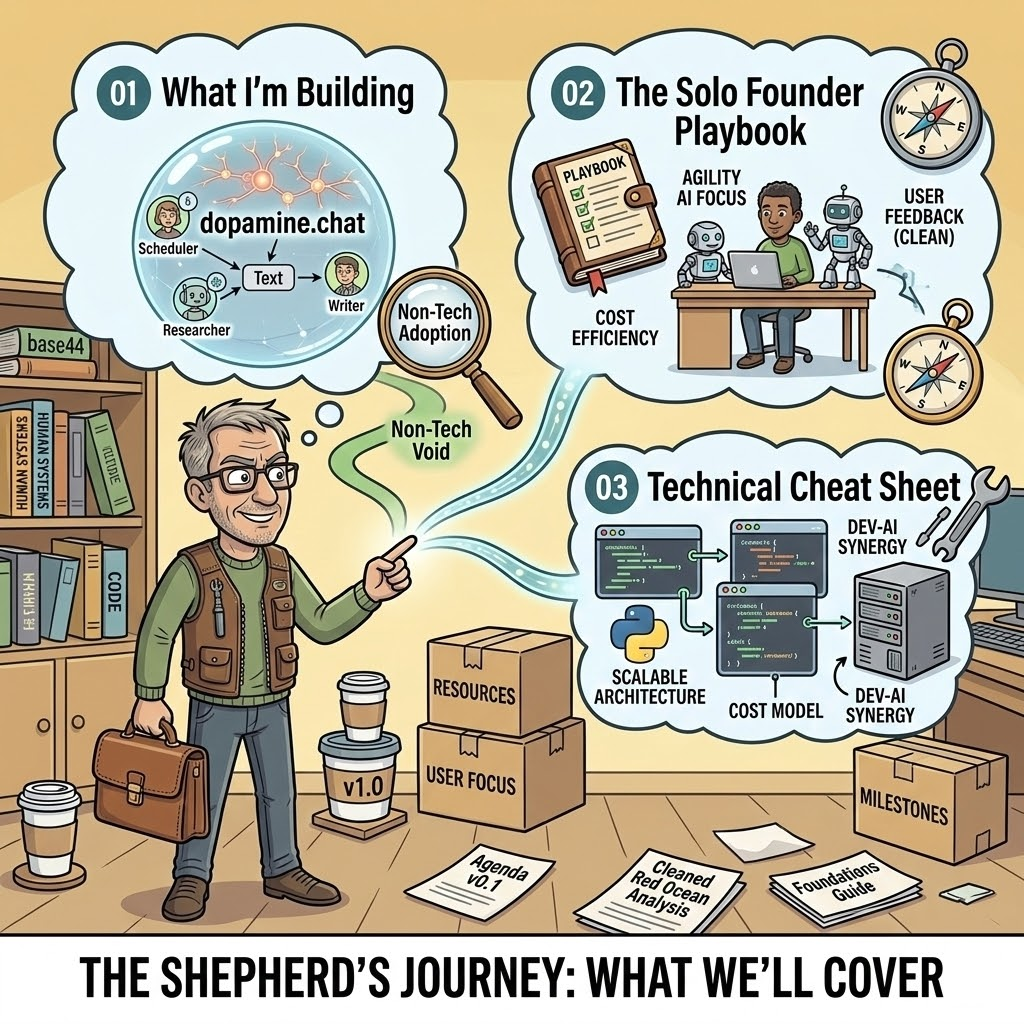
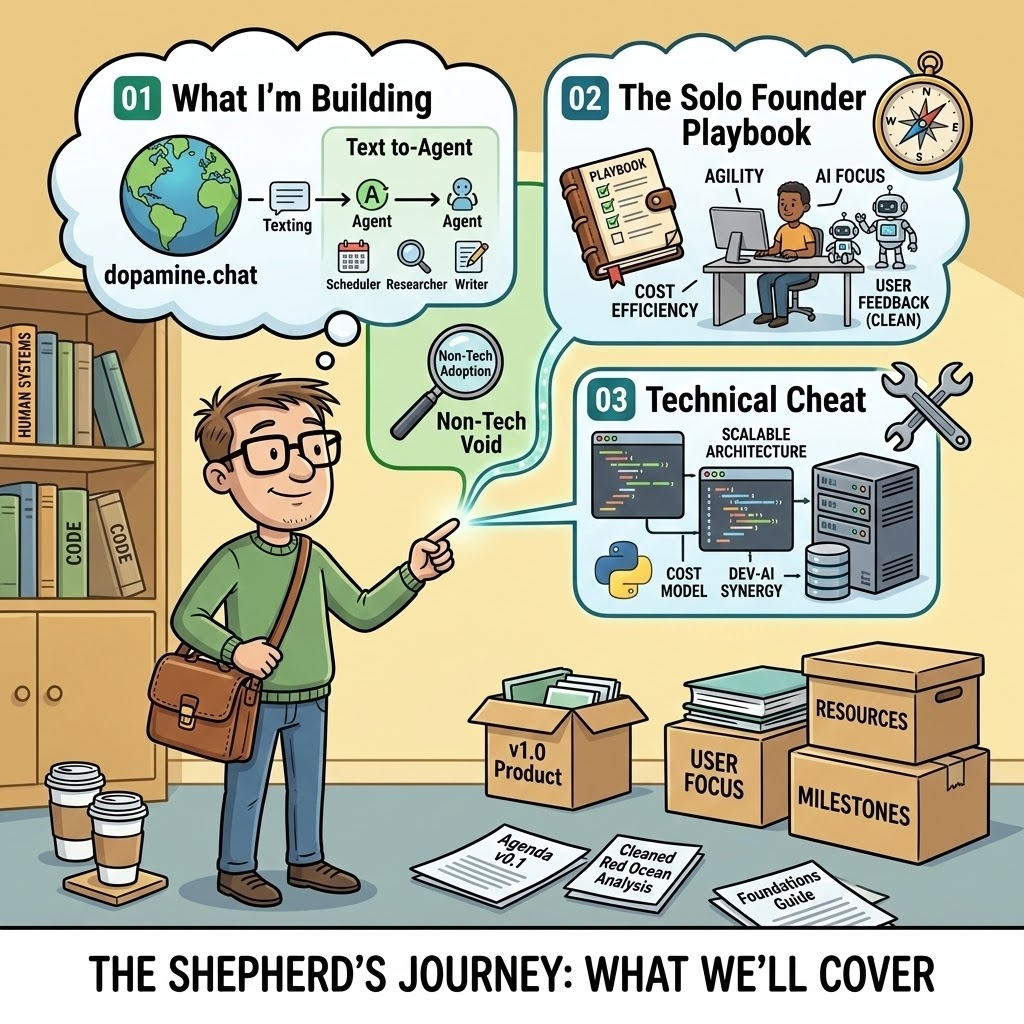
added more images

diff --git a/index.html b/index.html
@@ -309,18 +309,27 @@
         </div>
         <div class="slide-content" style="gap:var(--content-gap);">
             <h2 class="slide-title anim">What We'll Cover</h2>
-            <div class="anim mt-1" style="display:flex;flex-direction:column;gap:clamp(1rem,3vh,2rem);">
-                <div style="display:flex;align-items:center;gap:1rem;">
-                    <span style="color:var(--accent);font-weight:700;font-size:clamp(1.8rem,4vw,3rem);line-height:1;">01</span>
-                    <span style="font-size:clamp(1rem,2.2vw,1.5rem);font-weight:500;">What I'm Building</span>
+            <div style="display:grid;grid-template-columns:1fr 1fr;gap:clamp(1rem,3vw,2.5rem);flex:1;min-height:0;align-items:center;">
+                <div class="anim" style="display:flex;flex-direction:column;gap:clamp(1rem,3vh,2rem);">
+                    <div style="display:flex;align-items:center;gap:1rem;">
+                        <span style="color:var(--accent);font-weight:700;font-size:clamp(1.8rem,4vw,3rem);line-height:1;">01</span>
+                        <span style="font-size:clamp(1rem,2.2vw,1.5rem);font-weight:500;">What I'm Building</span>
+                    </div>
+                    <div style="display:flex;align-items:center;gap:1rem;">
+                        <span style="color:var(--accent);font-weight:700;font-size:clamp(1.8rem,4vw,3rem);line-height:1;">02</span>
+                        <span style="font-size:clamp(1rem,2.2vw,1.5rem);font-weight:500;">The Solo Founder Playbook</span>
+                    </div>
+                    <div style="display:flex;align-items:center;gap:1rem;">
+                        <span style="color:var(--accent);font-weight:700;font-size:clamp(1.8rem,4vw,3rem);line-height:1;">03</span>
+                        <span style="font-size:clamp(1rem,2.2vw,1.5rem);font-weight:500;">Technical Cheat Sheet</span>
+                    </div>
                 </div>
-                <div style="display:flex;align-items:center;gap:1rem;">
-                    <span style="color:var(--accent);font-weight:700;font-size:clamp(1.8rem,4vw,3rem);line-height:1;">02</span>
-                    <span style="font-size:clamp(1rem,2.2vw,1.5rem);font-weight:500;">The Solo Founder Playbook</span>
-                </div>
-                <div style="display:flex;align-items:center;gap:1rem;">
-                    <span style="color:var(--accent);font-weight:700;font-size:clamp(1.8rem,4vw,3rem);line-height:1;">03</span>
-                    <span style="font-size:clamp(1rem,2.2vw,1.5rem);font-weight:500;">Technical Cheat Sheet</span>
+                <div class="anim" style="display:flex;align-items:center;justify-content:center;min-height:0;">
+                    <img
+                        src="public/what-youll-get.jpg"
+                        alt="What you'll get"
+                        style="max-height:min(55vh,450px);max-width:100%;width:auto;height:auto;object-fit:contain;border-radius:10px;border:1px solid rgba(255,255,255,0.08);box-shadow:0 4px 24px rgba(0,0,0,0.4);"
+                    >
                 </div>
             </div>
         </div>
